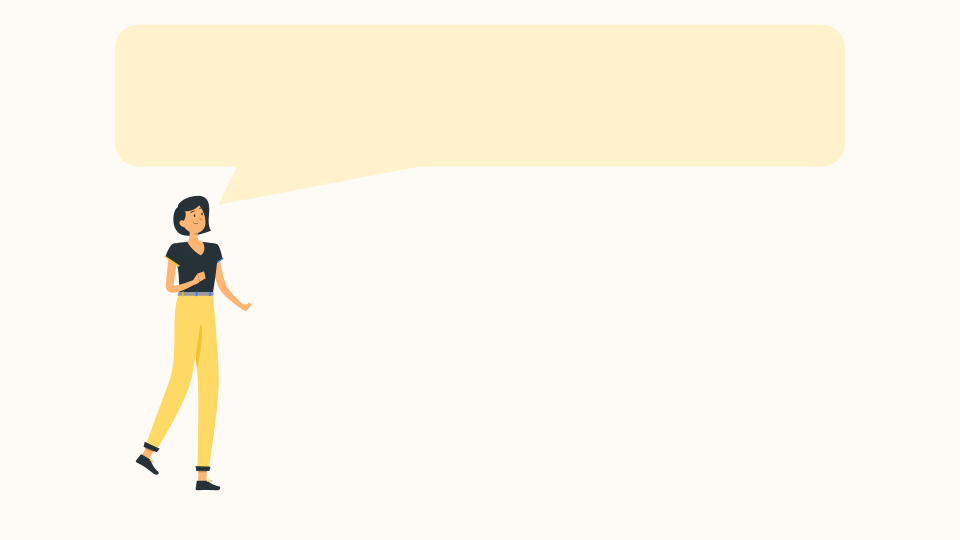
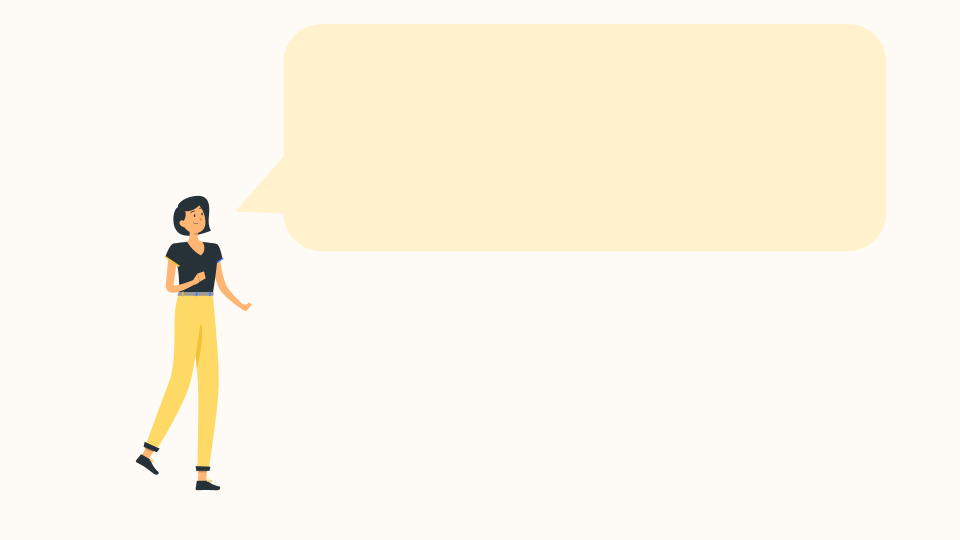
update unit 2; TODO: compound interest section

Changed region(s): [[0.0938, 0.0296, 0.9375, 0.4741]]

diff --git a/src/components/Unit2Section1.js b/src/components/Unit2Section1.js
@@ -1,4 +1,4 @@
-import React, { useState } from "react";
+import React, { useState, useEffect } from "react";
 import { graphql, useStaticQuery, navigate } from "gatsby";
 import styled from "styled-components";
 import BackgroundImage from "gatsby-background-image";
@@ -30,7 +30,7 @@ const Unit2Section1 = ({ progress, setProgress }) => {
             }
           }
         }
-        section2_3: file(relativePath: { eq: "unit1section2_3.png" }) {
+        section1_3: file(relativePath: { eq: "unit2section1_3.png" }) {
           childImageSharp {
             fluid(quality: 90, maxWidth: 1920) {
               ...GatsbyImageSharpFluid_withWebp
@@ -53,7 +53,7 @@ const Unit2Section1 = ({ progress, setProgress }) => {
     font-size: 1.25rem;
 
     #text {
-      margin-top: 7%;
+      margin-top: 10%;
     }
 
     .input-group {
@@ -62,12 +62,12 @@ const Unit2Section1 = ({ progress, setProgress }) => {
     }
 
     #text-small {
-      margin-top: 8.5rem;
+      margin-top: 6%;
       font-size: 1rem;
     }
 
     .bubble {
-      margin-top: 20%;
+      margin-top: 13%;
       position: relative;
       font-size: 1.25rem;
       line-height: 1rem;
@@ -94,7 +94,7 @@ const Unit2Section1 = ({ progress, setProgress }) => {
 
     #response {
       display: flex;
-      font-size: 1.25rem;
+      // font-size: 1.25rem;
       color: #434343;
       border-color: #434343;
       margin: 0.5rem;
@@ -131,8 +131,9 @@ const Unit2Section1 = ({ progress, setProgress }) => {
     }
 
     p {
-      margin-top: 25%;
-      margin-bottom: 5%;
+      width: 60%;
+      margin: 5% auto auto 15%;
+      margin-top: 5%;
     }
 
     .alert {
@@ -143,7 +144,7 @@ const Unit2Section1 = ({ progress, setProgress }) => {
 
     #multiple-choice {
       min-width: 200px;
-      margin-left: 40%;
+      margin-left: 30%;
       width: 50%;
       display: flex;
       flex-direction: column;
@@ -157,7 +158,7 @@ const Unit2Section1 = ({ progress, setProgress }) => {
       }
 
       .choices {
-        font-size: 1.25rem;
+        font-size: 1rem;
         color: #434343;
         border-color: #434343;
         margin-top: 1rem;
@@ -210,6 +211,11 @@ const Unit2Section1 = ({ progress, setProgress }) => {
   };
 
   const [step3Choice, setStep3Choice] = useState(0);
+  const [showExample, setShowExample] = useState(false);
+
+  useEffect(() => {
+    setShowExample(false);
+  }, [step3Choice]);
 
   const Step2 = () => {
     const choices = [
@@ -222,10 +228,11 @@ const Unit2Section1 = ({ progress, setProgress }) => {
         <StyledWrap>
           <div id="text">
             <p>
-              There are mainly two kinds:
-              <strong>simple interest</strong> and
-              <strong>compound interest</strong>. Have you heard of them before?
+              There are mainly two kinds: <strong> simple interest</strong> and
+              <strong>compound interest</strong>. Did you include them in your
+              response?
             </p>
+            <p>If not, have you heard of them before?</p>
           </div>
           <div className="bubble bubble-bottom-left">
             {choices.map((e, index) => (
@@ -233,7 +240,7 @@ const Unit2Section1 = ({ progress, setProgress }) => {
                 variant="outline-primary"
                 id="response"
                 key={index}
-                onClick={setStep3Choice(index)}
+                onClick={() => setStep3Choice(index)}
               >
                 {e}
               </Button>
@@ -245,17 +252,47 @@ const Unit2Section1 = ({ progress, setProgress }) => {
   };
 
   const Step3 = () => {
-    step3Choice == 0 ? (
-      <BackgroundImage fluid={data.section1_1.childImageSharp.fluid}>
+    // step3Choice == 3 && navigate("unit2#section3");
+    if (step3Choice == 3) {
+      const currentProgress = { ...progress };
+      currentProgress["section2"] = [4, 4];
+      setProgress(currentProgress);
+    }
+
+    return step3Choice == 1 ? (
+      <BackgroundImage fluid={data.section1_2.childImageSharp.fluid}>
         <StyledWrap>
-          <div id="text-small"></div>
+          <div id="text-small">
+            <p>
+              Compound interest is when accrued interest is added to the
+              principle balance.
+            </p>
+            <p>
+              <strong>It is interest on interest.</strong>
+            </p>
+            {showExample && (
+              <p>
+                Compound interest can be on loans and investments. For example,
+                savings account uses compound interest.
+              </p>
+            )}
+          </div>
           <div className="bubble bubble-bottom-left">
+            {!showExample && (
+              <Button
+                variant="outline-primary"
+                id="response"
+                onClick={() => setShowExample(true)}
+              >
+                Can you give me an example?
+              </Button>
+            )}
             <Button
               variant="outline-primary"
               id="response"
-              // onClick={() => setShowStep4(true)}
+              onClick={() => setStep3Choice(1)}
             >
-              Can you give me an example?
+              What is simple interest?
             </Button>
             <Button
               variant="outline-primary"
@@ -264,7 +301,7 @@ const Unit2Section1 = ({ progress, setProgress }) => {
                 const currentProgress = { ...progress };
                 currentProgress["section2"] = [4, 4];
                 setProgress(currentProgress);
-                navigate("unit1#section3");
+                // navigate("unit2#section3");
               }}
             >
               Right on. I’m familiar with the concept of inflation (skip
@@ -274,16 +311,41 @@ const Unit2Section1 = ({ progress, setProgress }) => {
         </StyledWrap>
       </BackgroundImage>
     ) : (
-      <BackgroundImage fluid={data.section1_1.childImageSharp.fluid}>
+      <BackgroundImage fluid={data.section1_2.childImageSharp.fluid}>
         <StyledWrap>
-          <div id="text-small"></div>
+          <div id="text-small">
+            <p>
+              Simple interest is calculated as a percentage of a deposit or
+              loan’s principal balance.{" "}
+            </p>
+            <p>
+              No matter how long a borrower goes without paying a debt or an
+              account holder keeps money in the bank, interest will still be
+              calculated from the original amount.
+            </p>
+            {showExample && (
+              <p>
+                For example, certain types of loans such as mortgage and
+                students loans use simple interest.
+              </p>
+            )}
+          </div>
           <div className="bubble bubble-bottom-left">
+            {!showExample && (
+              <Button
+                variant="outline-primary"
+                id="response"
+                onClick={() => setShowExample(true)}
+              >
+                Can you give me an example?
+              </Button>
+            )}
             <Button
               variant="outline-primary"
               id="response"
-              // onClick={() => setShowStep4(true)}
+              onClick={() => setStep3Choice(0)}
             >
-              Can you give me an example?
+              What is compound interest?
             </Button>
             <Button
               variant="outline-primary"
@@ -292,7 +354,7 @@ const Unit2Section1 = ({ progress, setProgress }) => {
                 const currentProgress = { ...progress };
                 currentProgress["section2"] = [4, 4];
                 setProgress(currentProgress);
-                navigate("unit1#section3");
+                // navigate("unit2#section3");
               }}
             >
               Right on. I’m familiar with the concept of inflation (skip
@@ -309,41 +371,33 @@ const Unit2Section1 = ({ progress, setProgress }) => {
   const Step4 = () => {
     const choices = [
       {
-        option: "Cash",
+        option: "What is simple interest?",
         feedback:
-          "Not quite. Cash doesn’t give time value. Think about what may grow your money",
-        isCorrect: false,
+          "Simple interest is calculated as a percentage of a deposit or loan’s principal balance. No matter how long a borrower goes without paying a debt or an account holder keeps money in the bank, interest will still be calculated from the original amount. Certain types of loans such as mortgage and students loans use simple interest.",
       },
       {
-        option: "Present value",
+        option: "What is compound interest?",
         feedback:
-          "Not quite. Present value is the value of the deposit. It’s does not explain the time value of money. Think about what may grow your money?",
-        isCorrect: false,
+          "Compound interest is when accrued interest is added to the principle balance. It is interest on interest. Compound interest can be on loans and investments. For example, savings account uses compound interest.",
       },
       {
-        option: "Future value",
+        option: "I'm familiar with both!",
         feedback:
-          "Not quite. Future value is the value of the deposit after the investment period. It’s does not explain the time value of money. Think about what may grow your money?",
-        isCorrect: false,
-      },
-      {
-        option: "Interest",
-        feedback:
-          "🎉 Correct! We say that interest is the time value of money because over time you can earn interest on your money.",
-        isCorrect: true,
+          "Awesome! Feel free to skip ahead to the next section if you want to.",
       },
     ];
 
     return (
-      <BackgroundImage fluid={data.section2_3.childImageSharp.fluid}>
+      <BackgroundImage fluid={data.section1_3.childImageSharp.fluid}>
         <MultipleChoice>
           <div id="question">
             <p>
-              According to the video, what is known as the time value of money?
+              There are mainly two kinds: <strong>simple interest</strong> and{" "}
+              <strong>compound interest</strong>. Have you heard of them before?
             </p>
           </div>
           <Row>
-            <Col xs={5}>
+            <Col xs={4}>
               <div id="multiple-choice">
                 {choices.map((e, index) => (
                   <Button
@@ -360,13 +414,9 @@ const Unit2Section1 = ({ progress, setProgress }) => {
                 ))}
               </div>
             </Col>
-            <Col xs={7}>
+            <Col xs={8}>
               {typeof choice === "number" && (
-                <Alert
-                  variant={choices[choice].isCorrect ? "success" : "danger"}
-                >
-                  {choices[choice].feedback}
-                </Alert>
+                <Alert variant="info">{choices[choice].feedback}</Alert>
               )}
             </Col>
           </Row>
@@ -380,9 +430,9 @@ const Unit2Section1 = ({ progress, setProgress }) => {
   return (
     <>
       <Step1 />
-      {progress["section1"][0] >= 1 && <Step2 />}
-      {progress["section1"][0] >= 2 && <Step3 />}
-      {progress["section1"][0] >= 3 && <Step4 />}
+      {/* {progress["section1"][0] >= 1 && <Step2 />} */}
+      {/* {progress["section1"][0] >= 2 && <Step3 />} */}
+      {progress["section1"][0] >= 2 && <Step4 />}
     </>
   );
 };

diff --git a/src/components/Unit1Section2.js b/src/components/Unit1Section2.js
@@ -131,17 +131,17 @@ const Unit1Section2 = ({ progress }) => {
         :active {
           background-color: #ffe599;
           border-color: #434343;
-          color: 434343;
+          color: #434343;
         }
         :hover {
           background-color: #ffe599;
           border-color: #434343;
-          color: 434343;
+          color: #434343;
         }
         :focus {
           background-color: #ffe599;
           border-color: #434343;
-          color: 434343;
+          color: #434343;
         }
       }
     }
@@ -284,8 +284,6 @@ const Unit1Section2 = ({ progress }) => {
       </BackgroundImage>
     );
   };
-
-  console.log("progress", progress);
 
   return (
     <>

diff --git a/src/components/header.js b/src/components/header.js
@@ -4,7 +4,12 @@ import React from "react";
 import { Button, Navbar, Nav, NavItem } from "react-bootstrap";
 
 const Header = ({ siteTitle }) => (
-  <Navbar bg="dark" variant="dark" expand="lg">
+  <Navbar
+    bg="dark"
+    variant="dark"
+    expand="lg"
+    style={{ position: "sticky", top: "0", width: " 100%", zIndex: "100" }}
+  >
     <Navbar.Brand as={Link} href="/">
       {siteTitle}
     </Navbar.Brand>

diff --git a/src/components/sectionContent.js b/src/components/sectionContent.js
@@ -32,7 +32,9 @@ const SectionContent = ({
     } else if (currentUnit == 2) {
       switch (currentSection.slice(-1)) {
         case "1":
-          return <Unit2Section1 progress={progress} />;
+          return (
+            <Unit2Section1 progress={progress} setProgress={setProgress} />
+          );
 
         // case "2":
         //   return <Unit1Section2 progress={progress} />;

diff --git a/src/components/SharedStyledComponents.js b/src/components/SharedStyledComponents.js
@@ -54,6 +54,11 @@ export const StyledUnitBannerWrapper = styled(StyledContentCenterWrapper)`
   p {
     font-size: 24px;
   }
+  .sticky {
+    position: sticky;
+    top: 0;
+    width: 100%;
+  }
 `;
 
 export const StyledSectionWrapper = styled(StyledContentCenterWrapper)`
